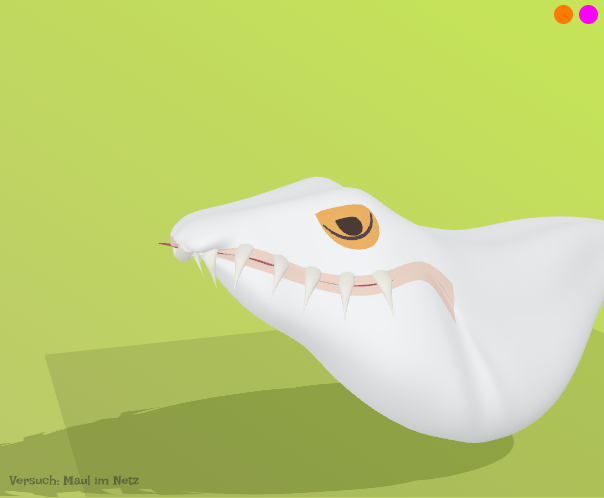
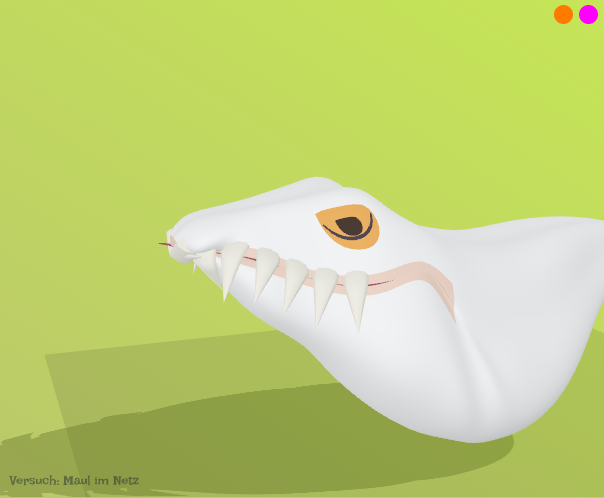
Zahn-Versuch Rex: Werte nach Florians Bogen 06 (breiter, dreieckig, dicht, außen), Vergleichsbild Vorlage | Versuch in der Seite, Bilder zu/50 %/offen

diff --git a/apps/editor/src/versuch/maulVersuch.ts b/apps/editor/src/versuch/maulVersuch.ts
@@ -178,7 +178,7 @@ function augenDreiecke(augen: AugeVorlage[], flaeche: Netz, bewegung: Starr | nu
 
 /** Zähne der Versuchswesen nach Florians Bögen (Rex, Bogen 06: 14 Oberzähne außen über der Unterlippe). */
 const VERSUCH_ZAEHNE: Record<string, () => Zahn[]> = {
-  rex: () => zahnreihe(14, 'oben', { ...ZAHN_STANDARD, laenge: 0.05, breite: 0.02, tiefe: 0.014, schaerfe: 0.8, biegung: 0.1, aussen: true }),
+  rex: () => zahnreihe(14, 'oben', { ...ZAHN_STANDARD, laenge: 0.06, breite: 0.03, tiefe: 0.016, schaerfe: 0.35, biegung: 0.05, aussen: true }, 0.8),
 };
 
 export function maulBauen(v: Vorlage): MaulErgebnis {
